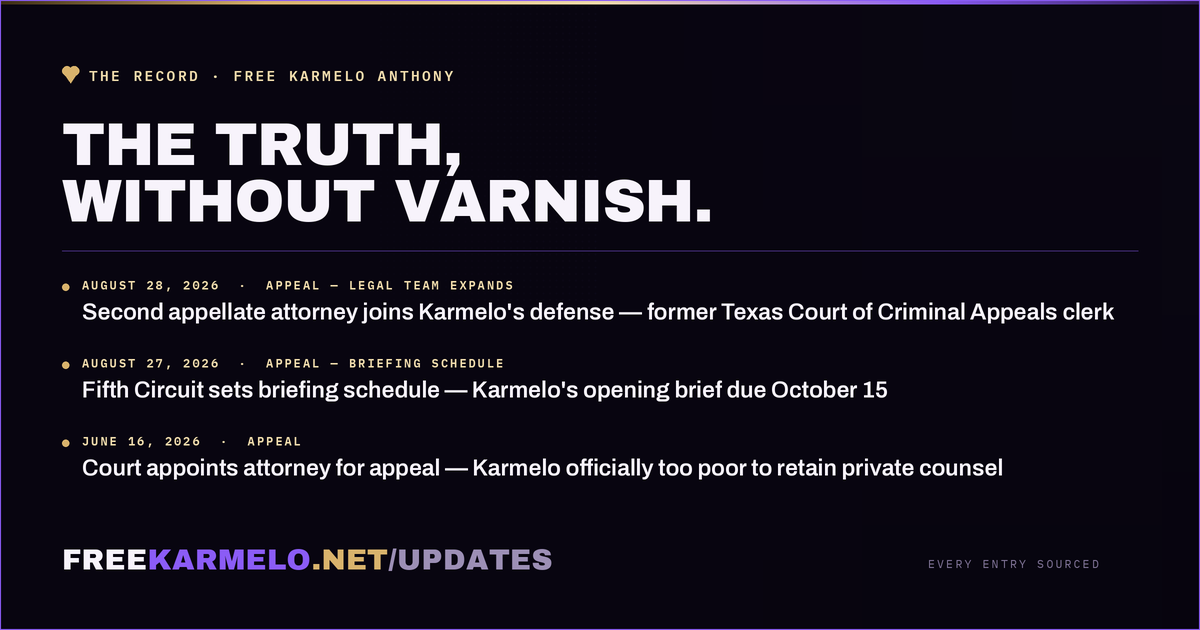
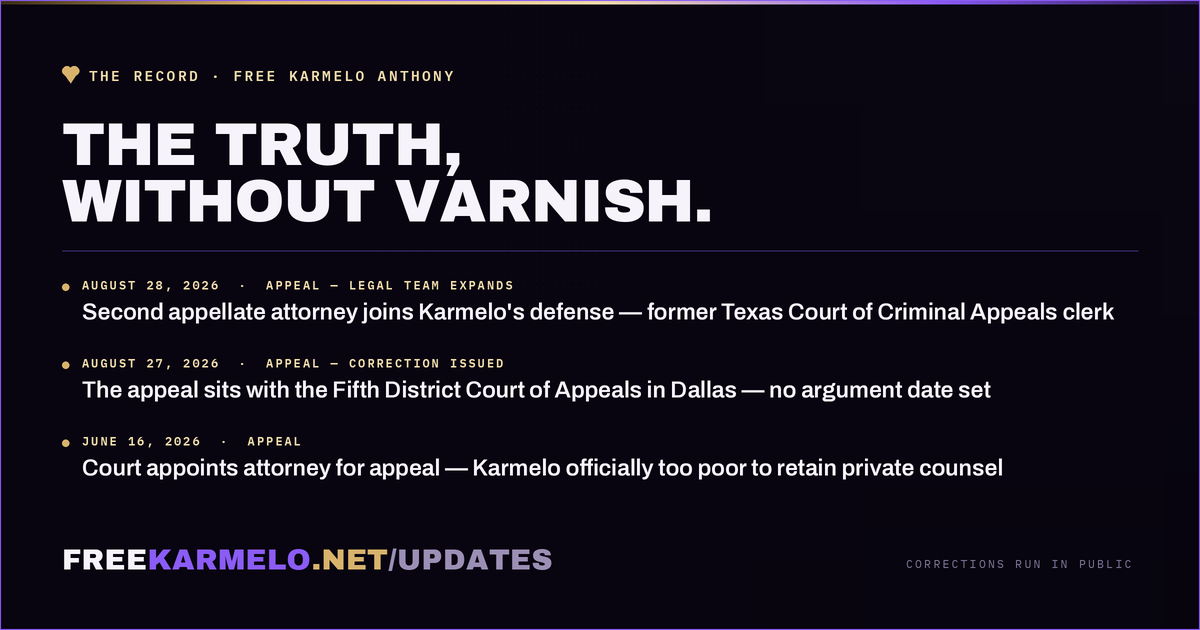
Correction: the appeal is a Texas state appeal, not a federal one
The /updates feed carried an entry headlined "Fifth Circuit sets briefing
schedule — Karmelo's opening brief due October 15", body attributing a
three-date briefing order to the Fifth Circuit Court of Appeals, source
"Fifth Circuit Clerk's Office · Court Docket", source_url
https://www.ca5.uscourts.gov/, and verified: true.

The Fifth Circuit is the federal appellate court. A Collin County conviction
appeals to the Court of Appeals for the Fifth District of Texas at Dallas —
which is what /weekend, /solidarity and the campaign's approved framing have
said all along. Press reporting from the day the appeal opened names it "the
Fifth Court of Appeals in Dallas" (FOX 4) and "5th Court of Appeals in Dallas"
(Dallas Observer), and neither reports any briefing schedule, brief deadline or
argument date; FOX 4 says only that a hearing may not come until 2027.

So the fix is not a rename. The entry now states what is supportable — where
the appeal sits, who files the opening brief, the Batson and sudden-passion
grounds, and that no argument date has been set — and carries a dated
correction notice naming the error in plain sight. The three deadlines are
removed pending confirmation from the Fifth District's own docket. source and
source_url point at reporting that was actually read; verified is false until
the team confirms against the docket. The Aug 28 legal-team entry, which had
inherited the same error in a subordinate clause, is corrected too, and the
[…]

Changed region(s): [[0.0617, 0.573, 0.8325, 0.6333], [0.7708, 0.8746, 0.925, 0.9048]]

diff --git a/updates.html b/updates.html
@@ -78,6 +78,8 @@
   .post .meta{display:flex;align-items:center;gap:10px;padding:14px 18px;border-bottom:1px solid var(--border);font-family:var(--mono);font-size:12px;color:var(--fg-dim)}
   .post .meta .tag{color:var(--purple-light);border:1px solid var(--border-3);border-radius:6px;padding:2px 8px}
   .post .body{padding:18px}
+  .post .src{margin-top:12px;font-family:var(--mono,monospace);font-size:11px;letter-spacing:.12em;text-transform:uppercase;color:#8a7f96}
+  .post .src a{color:#c9b2ff;border-bottom:1px solid rgba(155,89,182,.4)}
   .post h3{font-family:var(--serif);font-size:24px;font-weight:600;margin-bottom:8px}
   .post p{color:var(--fg-dim);font-size:15.5px}
   .post video,.post img{width:100%;border-radius:10px;margin-top:14px;background:#000}
@@ -404,7 +406,11 @@
                 : it.image_url ? '<img src="'+it.image_url+'" alt="">' : '';
       return '<article class="post"><div class="meta"><span class="tag">'+(it.tag||'UPDATE')+'</span><span>'+(it.date||'')+'</span>'
         +(it.organizer?'<span>&middot; '+it.organizer+'</span>':'')+'</div>'
-        +'<div class="body"><h3>'+(it.title||'')+'</h3><p>'+(it.body||'')+'</p>'+media+'</div></article>';
+        +'<div class="body"><h3>'+(it.title||it.headline||'')+'</h3><p>'+(it.body||'')+'</p>'+media
+        /* the record is only a record if the reader can see what it rests on */
+        +(it.source ? '<p class="src">SOURCE: '+(it.source_url
+             ? '<a href="'+it.source_url+'" rel="noopener">'+it.source+'</a>' : it.source)+'</p>' : '')
+        +'</div></article>';
     }).join("");
     if(empty) empty.style.display="none";
   }catch(e){/* keep empty-state */}

diff --git a/updates/index.html b/updates/index.html
@@ -78,6 +78,8 @@
   .post .meta{display:flex;align-items:center;gap:10px;padding:14px 18px;border-bottom:1px solid var(--border);font-family:var(--mono);font-size:12px;color:var(--fg-dim)}
   .post .meta .tag{color:var(--purple-light);border:1px solid var(--border-3);border-radius:6px;padding:2px 8px}
   .post .body{padding:18px}
+  .post .src{margin-top:12px;font-family:var(--mono,monospace);font-size:11px;letter-spacing:.12em;text-transform:uppercase;color:#8a7f96}
+  .post .src a{color:#c9b2ff;border-bottom:1px solid rgba(155,89,182,.4)}
   .post h3{font-family:var(--serif);font-size:24px;font-weight:600;margin-bottom:8px}
   .post p{color:var(--fg-dim);font-size:15.5px}
   .post video,.post img{width:100%;border-radius:10px;margin-top:14px;background:#000}
@@ -425,7 +427,11 @@
                 : it.image_url ? '<img src="'+it.image_url+'" alt="">' : '';
       return '<article class="post"><div class="meta"><span class="tag">'+(it.tag||'UPDATE')+'</span><span>'+(it.date||'')+'</span>'
         +(it.organizer?'<span>&middot; '+it.organizer+'</span>':'')+'</div>'
-        +'<div class="body"><h3>'+(it.title||'')+'</h3><p>'+(it.body||'')+'</p>'+media+'</div></article>';
+        +'<div class="body"><h3>'+(it.title||it.headline||'')+'</h3><p>'+(it.body||'')+'</p>'+media
+        /* the record is only a record if the reader can see what it rests on */
+        +(it.source ? '<p class="src">SOURCE: '+(it.source_url
+             ? '<a href="'+it.source_url+'" rel="noopener">'+it.source+'</a>' : it.source)+'</p>' : '')
+        +'</div></article>';
     }).join("");
     if(empty) empty.style.display="none";
   }catch(e){/* keep empty-state */}

diff --git a/tools/share-cards/make-card.py b/tools/share-cards/make-card.py
@@ -433,7 +433,8 @@ def card_updates(out):
         y += 78
 
     wordmark(d, x * S, 544 * S, '/UPDATES', px=29)
-    tracked(d, ((W - 62 - 210) * S, 556 * S), 'EVERY ENTRY SOURCED', font(MONO_R, 11.5), FAINT, track=2.2)
+    # not "every entry sourced": 5 of 57 carry a source field. Claim only what holds.
+    tracked(d, ((W - 62 - 232) * S, 556 * S), 'CORRECTIONS RUN IN PUBLIC', font(MONO_R, 11.5), FAINT, track=2.2)
     finish(im, out)
 
 
